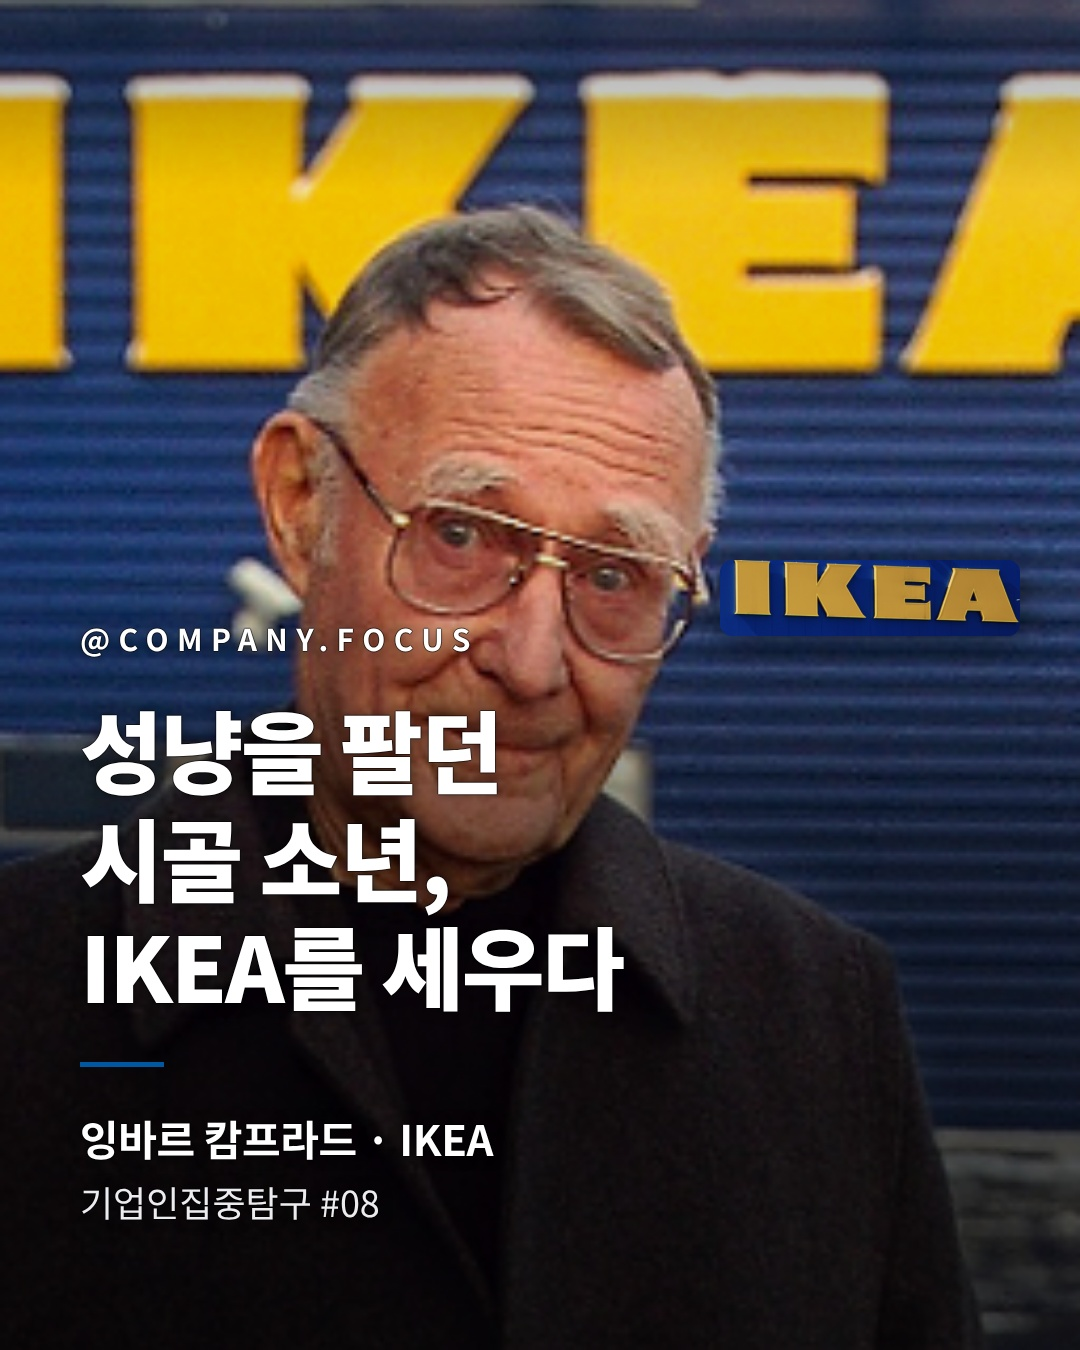
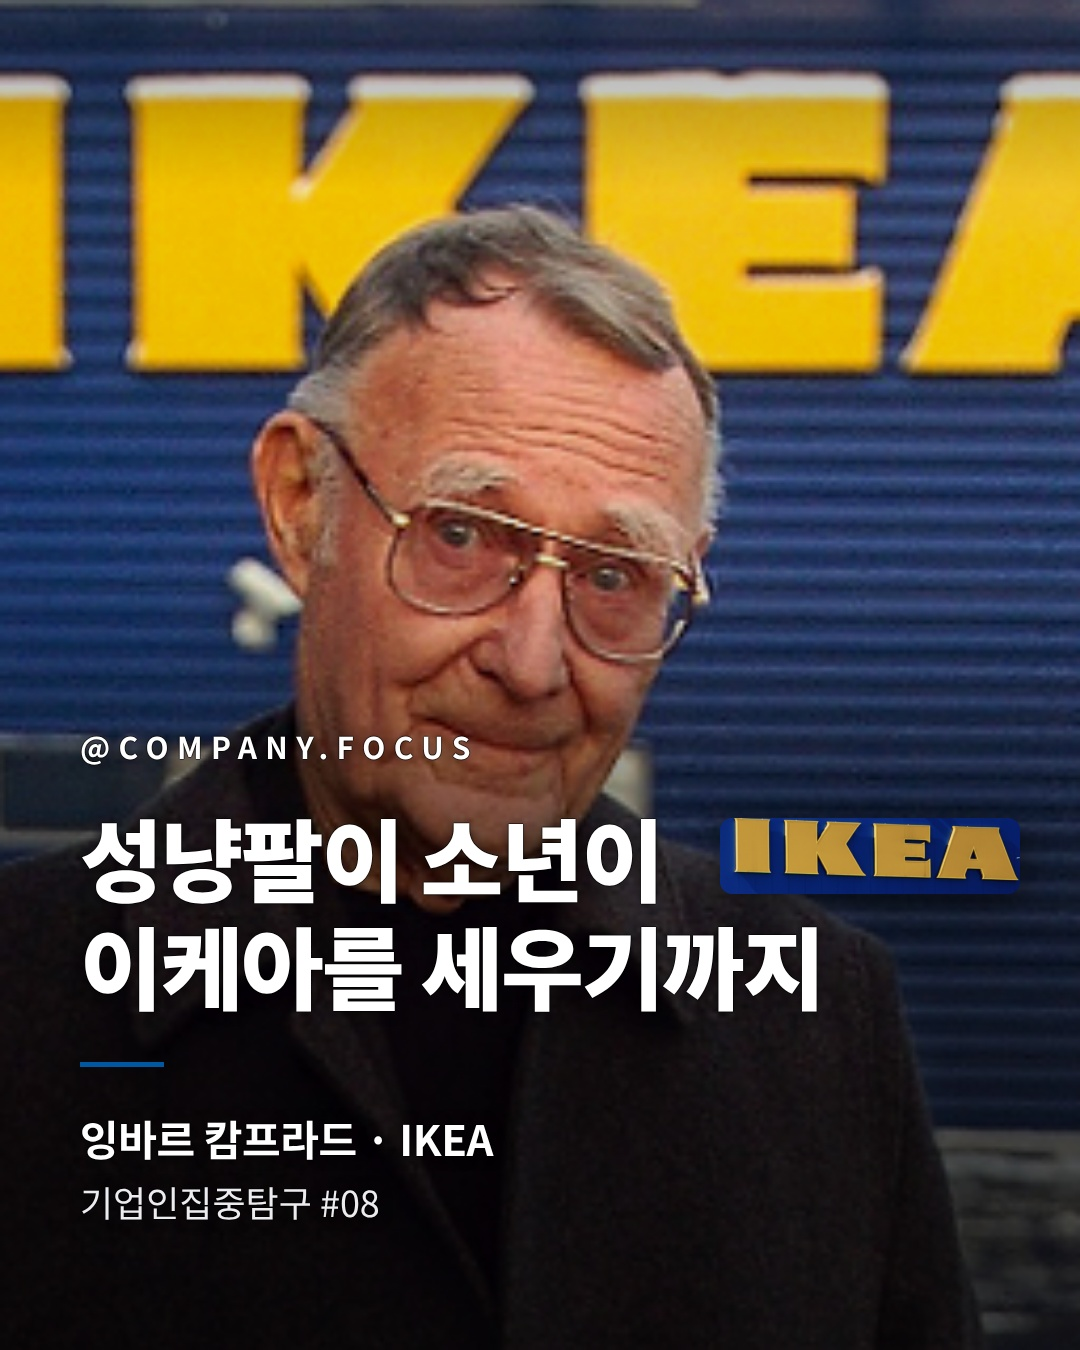
#08 표지 제목 '성냥팔이 소년이 이케아를 세우기까지'(사용자 지시), 스티커 겹침 검사는 줄 간격 여백 빼고 글자 높이로
Claude-Session: https://claude.ai/code/session_0174UmVuwJmyLhAWFRzq7SfG

Changed region(s): [[0.0611, 0.5289, 0.9472, 0.7467], [0.6417, 0.4044, 0.9472, 0.4978], [0.0611, 0.4667, 0.4583, 0.4978]]

diff --git a/render.py b/render.py
@@ -148,7 +148,9 @@ def main(path):
               if (k) { const a = k.getBoundingClientRect();
                 for (const q of ['.idx','.when','.txt h1','.txt p','.txt .who','.txt .handle','.txt .stats']) {
                   for (const el of document.querySelectorAll(q)) { const rg = document.createRange(); rg.selectNodeContents(el);
-                    for (const b of rg.getClientRects()) {   // 실제 글자 줄의 영역만 검사
+                    const fs = parseFloat(getComputedStyle(el).fontSize);
+                    for (const r0 of rg.getClientRects()) {   // 실제 글자 줄의 영역만 검사(줄 간격 여백은 빼고 글자 높이만)
+                      const pad = Math.max(0, (r0.height - fs) / 2), b = {left: r0.left, right: r0.right, top: r0.top + pad, bottom: r0.bottom - pad};
                       if (a.left < b.right + 8 && a.right > b.left - 8 && a.top < b.bottom + 8 && a.bottom > b.top - 8)
                         return `스티커가 ${q} 글자와 겹침(스티커 top·size 조정)`; } } } }
               return null; }""")
